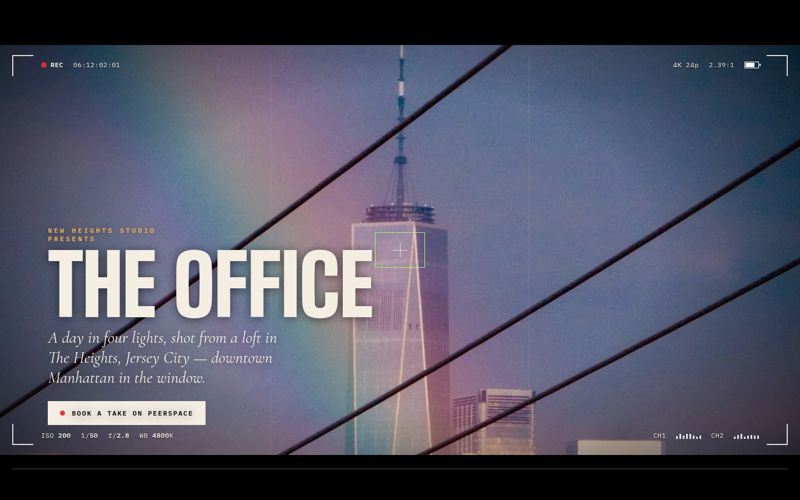
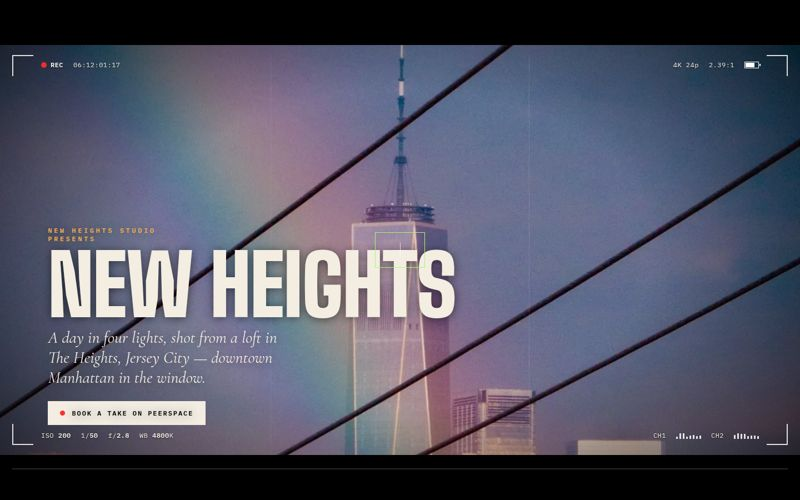
Rebrand concepts: New Heights Studio, HEIGHTS 98, facts-only copy

Changed region(s): [[0.0625, 0.48, 0.5938, 0.66]]

diff --git a/1/index.html b/1/index.html
@@ -2,7 +2,7 @@
 <html lang="en"><head>
 <meta charset="utf-8"><meta name="viewport" content="width=device-width,initial-scale=1">
 <meta name="robots" content="noindex,nofollow,noarchive">
-<title>NEW HEIGHTS — Issue Nº01: The Office Issue</title>
+<title>NEW HEIGHTS — Issue Nº01: The Skyline Issue</title>
 <link rel="preconnect" href="https://fonts.googleapis.com"><link rel="preconnect" href="https://fonts.gstatic.com" crossorigin>
 <link href="https://fonts.googleapis.com/css2?family=Anton&family=Instrument+Serif:ital@0;1&family=JetBrains+Mono:wght@400;700&display=swap" rel="stylesheet">
 <style>
@@ -92,28 +92,28 @@ a{color:inherit}img{display:block;width:100%;height:100%;object-fit:cover}
 @media(hover:none){.cursor{display:none}}
 </style></head><body>
 <div class="cursor" id="cur"></div>
-<header class="top cap"><span>New Heights Studio</span><span class="h">Issue Nº01 — The Office Issue</span><span class="h">The Heights, Jersey City NJ</span><span class="h">$75–99/hr</span><a class="h" href="https://www.instagram.com/newheightsstudiojc/" target="_blank" rel="noopener">IG @newheightsstudiojc</a><a class="bk" href="https://www.peerspace.com/pages/listings/6ae4f4368b9999ba346769e4" target="_blank" rel="noopener">BOOK ON PEERSPACE ↗</a></header>
+<header class="top cap"><span>New Heights Studio</span><span class="h">Issue Nº01 — The Skyline Issue</span><span class="h">The Heights, Jersey City NJ</span><span class="h">$75–99/hr</span><a class="h" href="https://www.instagram.com/newheightsstudiojc/" target="_blank" rel="noopener">IG @newheightsstudiojc</a><a class="bk" href="https://www.peerspace.com/pages/listings/6ae4f4368b9999ba346769e4" target="_blank" rel="noopener">BOOK ON PEERSPACE ↗</a></header>
 
 <section class="cover">
  <h1 class="mast A">New<span>/</span>Heights</h1>
- <div class="cimg"><img src="../img/13.webp" alt="Rainbow over downtown Manhattan and One World Trade from the studio window" fetchpriority="high"><span class="tag cap">Fig. 13 — View from the office</span></div>
+ <div class="cimg"><img src="../img/13.webp" alt="Rainbow over downtown Manhattan and One World Trade from the studio window" fetchpriority="high"><span class="tag cap">Fig. 13 — View from the window</span></div>
  <div class="lines">
   <p class="cap">Nº01 · Photo / Video / Podcast / Production</p>
-  <h2 class="A">500 sq ft of daylight &amp; white brick</h2>
-  <p class="S">Why everyone just calls it <em>“the office.”</em></p>
-  <p>A natural-light loft in The Heights, Jersey City, with the downtown Manhattan skyline in the window. Fifteen-foot ceilings, vintage white brick, mounted backdrops, lighting included.</p>
+  <h2 class="A">Daylight, white brick &amp; a skyline</h2>
+  <p class="S">Downtown Manhattan, <em>right in the window.</em></p>
+  <p>A natural-light loft in The Heights, Jersey City, with the downtown Manhattan skyline and One World Trade in view. Exposed vintage white brick and a variety of mounted backdrops and materials.</p>
  </div>
  <div class="rgt">
   <div><p class="cap">Inside: rates, p.07</p><div class="price A">$75</div><p class="cap">per hour · 3 hr minimum</p></div>
   <div><div class="bar" aria-hidden="true"></div><p class="cap" style="margin:6px 0 14px">0 75099 00001 · JC/NYC</p>
-  <a class="big-btn" href="https://www.peerspace.com/pages/listings/6ae4f4368b9999ba346769e4" target="_blank" rel="noopener">Book the office ↗</a></div>
+  <a class="big-btn" href="https://www.peerspace.com/pages/listings/6ae4f4368b9999ba346769e4" target="_blank" rel="noopener">Book New Heights ↗</a></div>
  </div>
 </section>
 
-<div class="tick" aria-hidden="true"><div><span>Photo ✶ Video ✶ Production ✶ Podcast ✶ Content ✶ Meetings ✶ Workshops ✶ Manhattan views ✶ Vintage white brick ✶ 15 ft ceilings ✶</span><span>Photo ✶ Video ✶ Production ✶ Podcast ✶ Content ✶ Meetings ✶ Workshops ✶ Manhattan views ✶ Vintage white brick ✶ 15 ft ceilings ✶</span></div></div>
+<div class="tick" aria-hidden="true"><div><span>Photo ✶ Video ✶ Production ✶ Podcast ✶ Content ✶ Meetings ✶ Workshops ✶ Manhattan views ✶ Vintage white brick ✶ Natural light ✶</span><span>Photo ✶ Video ✶ Production ✶ Podcast ✶ Content ✶ Meetings ✶ Workshops ✶ Manhattan views ✶ Vintage white brick ✶ Natural light ✶</span></div></div>
 
 <section class="toc"><h3 class="A">Con&shy;tents</h3><ol>
- <li><a href="#light"><span class="cap">p.02</span><b>The light</b><em class="cap">Windows on two sides</em></a></li>
+ <li><a href="#light"><span class="cap">p.02</span><b>The light</b><em class="cap">Natural light</em></a></li>
  <li><a href="#brick"><span class="cap">p.03</span><b>The brick</b><em class="cap">Backdrops &amp; materials</em></a></li>
  <li><a href="#uses"><span class="cap">p.04</span><b>Six ways to use it</b><em class="cap">Photo → workshop</em></a></li>
  <li><a href="#table"><span class="cap">p.05</span><b>The table</b><em class="cap">Seats 8</em></a></li>
@@ -122,41 +122,41 @@ a{color:inherit}img{display:block;width:100%;height:100%;object-fit:cover}
 </ol></section>
 
 <section class="spread" id="light"><div class="no">02 — The Light</div><div class="ph"><img src="../img/04.webp" alt="Sunlit loft with brick, windows and lounge" loading="lazy"></div>
-<div class="tx"><div><p class="cap">Feature</p><h4 class="A">Dawn<br>to dusk.</h4></div>
-<div class="cols"><p class="drop">Large windows on two sides soak the room in natural light all day, with the downtown skyline sitting right there in the glass. One World Trade included, no extra charge.</p><p>When you want control, full-length heavy curtains black the room out completely — and double as a backdrop. Fifteen-foot ceilings leave room for overhead rigs on the included boom arms.</p></div>
-<p class="pull S">“Windows on two sides. Skyline on one.”</p></div></section>
+<div class="tx"><div><p class="cap">Feature</p><h4 class="A">Natural<br>light.</h4></div>
+<div class="cols"><p class="drop">Natural light fills the loft, with the downtown Manhattan skyline sitting right there in the glass and One World Trade in view.</p><p>Shoot in daylight against exposed vintage white brick, or work with the variety of mounted backdrops and materials.</p></div>
+<p class="pull S">“Daylight in. Skyline out.”</p></div></section>
 
 <section class="spread flip" id="brick"><div class="no">03 — The Brick</div><div class="ph"><img src="../img/18.webp" alt="Guitarist portrait against white brick" loading="lazy"></div>
 <div class="tx"><div><p class="cap">Texture</p><h4 class="A">Vintage<br>white<br>brick.</h4></div>
-<div class="cols"><p class="drop">A variety of mounted backdrops and materials sit against an exposed vintage white brick wall. Shoot clean, shoot raw, shoot both in one booking.</p><p>Lighting is part of the deal: Godox QS400 strobe, V860 speedlite + trigger, two GVM LED panels, C-stands, boom arms, a clamshell reflector and modifiers.</p></div>
-<p class="pull S">Gear is part of the booking.</p></div></section>
+<div class="cols"><p class="drop">A variety of mounted backdrops and materials sit against an exposed vintage white brick wall. Shoot clean, shoot raw, shoot both in one booking.</p><p>Photo, video, production, podcast, content — the same wall works for all of it.</p></div>
+<p class="pull S">Texture is part of the frame.</p></div></section>
 
 <section class="uses" id="uses">
- <article><img src="../img/t/02.webp" alt="" loading="lazy"><span class="cap">04.1</span><h5 class="A">Photo</h5><p>Portraits, fashion, product, editorial. Daylight or blackout, backdrops or brick.</p></article>
- <article><img src="../img/t/16.webp" alt="" loading="lazy"><span class="cap">04.2</span><h5 class="A">Video</h5><p>Music videos, interviews, brand films, short-form. Total blackout on demand.</p></article>
- <article><img src="../img/t/15.webp" alt="" loading="lazy"><span class="cap">04.3</span><h5 class="A">Production</h5><p>Small crews and full production days for up to 10 people.</p></article>
+ <article><img src="../img/t/02.webp" alt="" loading="lazy"><span class="cap">04.1</span><h5 class="A">Photo</h5><p>Portraits, fashion, product, editorial. Natural light, backdrops or brick.</p></article>
+ <article><img src="../img/t/16.webp" alt="" loading="lazy"><span class="cap">04.2</span><h5 class="A">Video</h5><p>Music videos, interviews, brand films, short-form. Skyline and brick on camera.</p></article>
+ <article><img src="../img/t/15.webp" alt="" loading="lazy"><span class="cap">04.3</span><h5 class="A">Production</h5><p>Shoot days and productions in a natural-light loft.</p></article>
  <article><img src="../img/t/03.webp" alt="" loading="lazy"><span class="cap">04.4</span><h5 class="A">Podcast</h5><p>Roundtables at the 8-seat table. Bring your own mics and recorders.</p></article>
  <article><img src="../img/t/19.webp" alt="" loading="lazy"><span class="cap">04.5</span><h5 class="A">Content</h5><p>Reels, TikToks, YouTube, product and social. A dozen looks, one booking.</p></article>
- <article><img src="../img/t/14.webp" alt="" loading="lazy"><span class="cap">04.6</span><h5 class="A">Meetings</h5><p>Workshops, pre-production and team sessions. Fast wifi, coffee station.</p></article>
+ <article><img src="../img/t/14.webp" alt="" loading="lazy"><span class="cap">04.6</span><h5 class="A">Meetings</h5><p>Meetings and workshops around the 8-seat conference table.</p></article>
 </section>
 
 <section class="spread" id="table"><div class="no">05 — The Table</div><div class="ph"><img src="../img/03.webp" alt="Conference table with leather chairs" loading="lazy"></div>
 <div class="tx"><div><p class="cap">Meetings · Podcasts · Roundtables</p><h4 class="A">Eight<br>seats.</h4></div>
-<div class="cols"><p class="drop">The extendable conference table seats eight — for podcasts, interviews, roundtables, pre-pro and the kind of meeting that actually feels like going to the office.</p><p>Production desk with LG monitor and KRK audio monitors. Bring your own microphones and recorders.</p></div>
-<p class="pull S">Meet at the office.</p></div></section>
+<div class="cols"><p class="drop">The conference table seats eight — for podcasts, interviews, roundtables, meetings and workshops.</p><p>Recording a podcast? Bring your own microphones and recorders.</p></div>
+<p class="pull S">Pull up a chair.</p></div></section>
 
 <section class="figs" id="figs"></section>
 
 <section class="rate" id="rate"><div class="n A"><sup>$</sup>75<span style="color:var(--r)">–</span>99</div>
-<div class="d"><div><p class="cap">p.07 — The rate</p><p class="S" style="font-size:38px;line-height:1;margin-top:10px">Per hour. Lighting and a host/assistant included.</p></div>
-<dl class="cap"><dt>Minimum</dt><dd>3 hours</dd><dt>Capacity</dt><dd>Up to 10</dd><dt>Size</dt><dd>500 sq ft</dd><dt>Ceilings</dt><dd>15 ft</dd><dt>Booking</dt><dd>Peerspace only</dd></dl>
+<div class="d"><div><p class="cap">p.07 — The rate</p><p class="S" style="font-size:38px;line-height:1;margin-top:10px">Per hour, booked on Peerspace.</p></div>
+<dl class="cap"><dt>Rate</dt><dd>$75–99 / hr</dd><dt>Minimum</dt><dd>3 hours</dd><dt>Location</dt><dd>The Heights, Jersey City</dd><dt>Booking</dt><dd>Peerspace only</dd></dl>
 <a class="big-btn" href="https://www.peerspace.com/pages/listings/6ae4f4368b9999ba346769e4" target="_blank" rel="noopener">Check dates on Peerspace ↗</a></div></section>
 
-<footer class="back"><p class="cap">Back cover</p><a class="huge A" href="https://www.peerspace.com/pages/listings/6ae4f4368b9999ba346769e4" target="_blank" rel="noopener">Book the<br>office ↗</a>
-<div class="row cap"><span>© New Heights Studio · The Heights, Jersey City NJ · Address shared via Peerspace</span><span><a href="https://www.instagram.com/newheightsstudiojc/" target="_blank" rel="noopener">Instagram</a> · <a href="https://www.facebook.com/newheightsstudiojc" target="_blank" rel="noopener">Facebook</a> · <a href="../">All concepts</a></span></div></footer>
+<footer class="back"><p class="cap">Back cover</p><a class="huge A" href="https://www.peerspace.com/pages/listings/6ae4f4368b9999ba346769e4" target="_blank" rel="noopener">Book New<br>Heights ↗</a>
+<div class="row cap"><span>© New Heights Studio · The Heights, Jersey City NJ</span><span><a href="https://www.instagram.com/newheightsstudiojc/" target="_blank" rel="noopener">Instagram</a> · <a href="https://www.facebook.com/newheightsstudiojc" target="_blank" rel="noopener">Facebook</a> · <a href="../">All concepts</a></span></div></footer>
 <div class="lb" id="lb"><img alt=""><p class="cap"></p></div>
 <script>
-const caps=["Seamless + strobe","Black backdrop by the window","The 8-seat table","Wide, sunlit","Lounge","Production desk","Desk, KRK monitors","Marshall + Harley","Harley detail","Keys + curtains","Rooftops","Freight elevator","Rainbow over downtown","Full room","Tethered shoot","Drum session","Wicker chair","Guitarist on brick","Couch portrait"];
+const caps=["Black backdrop set","Backdrop by the window","The 8-seat table","Wide, sunlit","Lounge","Desk setup","Desk detail","Amp + motorcycle","Motorcycle detail","Keys by the window","Rooftops","Load-in","Rainbow over downtown","Full room","On set","Drum session","Wicker chair","Guitarist on brick","Couch portrait"];
 const F=document.getElementById('figs'),lb=document.getElementById('lb');
 caps.forEach((c,i)=>{const n=String(i+1).padStart(2,'0');const f=document.createElement('figure');if(i==3||i==12)f.className='w2';f.innerHTML=`<div><img src="../img/t/${n}.webp" alt="${c}" loading="lazy"></div><figcaption class="cap">Fig. ${n} — ${c}</figcaption>`;f.onclick=()=>{lb.querySelector('img').src=`../img/${n}.webp`;lb.querySelector('p').textContent=`Fig. ${n} — ${c}`;lb.classList.add('on')};F.appendChild(f)});
 lb.onclick=()=>lb.classList.remove('on');

diff --git a/3/index.html b/3/index.html
@@ -2,7 +2,7 @@
 <html lang="en"><head>
 <meta charset="utf-8"><meta name="viewport" content="width=device-width,initial-scale=1">
 <meta name="robots" content="noindex,nofollow,noarchive">
-<title>the office — NewHeights OS 98</title>
+<title>HEIGHTS 98 — New Heights Studio</title>
 <link rel="preconnect" href="https://fonts.googleapis.com"><link rel="preconnect" href="https://fonts.gstatic.com" crossorigin>
 <link href="https://fonts.googleapis.com/css2?family=Pixelify+Sans:wght@400;700&family=Permanent+Marker&family=VT323&display=swap" rel="stylesheet">
 <style>
@@ -59,7 +59,7 @@ table{border-collapse:collapse;width:100%}td{padding:4px 6px;border-bottom:1px d
 .tray{border:1px solid;border-color:var(--sh) var(--hi) var(--hi) var(--sh);padding:4px 10px;font-size:12px;display:flex;gap:10px;align-items:center}
 .tray a{text-decoration:none}
 .smenu{position:fixed;left:2px;bottom:34px;width:250px;background:var(--face);border:2px solid;border-color:var(--hi) var(--dk) var(--dk) var(--hi);display:none;z-index:1001;padding:2px 2px 2px 30px}
-.smenu:before{content:"NewHeights 98";position:absolute;left:2px;top:2px;bottom:2px;width:26px;background:linear-gradient(0deg,var(--blue),var(--blue2));color:#fff;writing-mode:vertical-rl;transform:rotate(180deg);font-family:"Pixelify Sans";font-size:18px;padding:6px 0;text-align:left}
+.smenu:before{content:"HEIGHTS 98";position:absolute;left:2px;top:2px;bottom:2px;width:26px;background:linear-gradient(0deg,var(--blue),var(--blue2));color:#fff;writing-mode:vertical-rl;transform:rotate(180deg);font-family:"Pixelify Sans";font-size:18px;padding:6px 0;text-align:left}
 .smenu.on{display:block}.smenu a{display:flex;gap:10px;align-items:center;padding:8px 10px;text-decoration:none;color:#000;cursor:pointer}.smenu a:hover{background:var(--blue);color:#fff}
 .smenu hr{border:0;border-top:1px solid var(--sh);border-bottom:1px solid #fff;margin:3px 0}
 .marq{overflow:hidden;white-space:nowrap;background:#000;color:#0f0;font-family:VT323;font-size:20px;padding:2px 0}
@@ -72,7 +72,7 @@ table{border-collapse:collapse;width:100%}td{padding:4px 6px;border-bottom:1px d
 </style></head><body>
 <main class="desk" id="desk">
  <div class="icons">
-  <div class="ic" tabindex="0" data-open="about"><div class="g">🏢</div><span>the office</span></div>
+  <div class="ic" tabindex="0" data-open="about"><div class="g">🏙</div><span>New Heights</span></div>
   <div class="ic" tabindex="0" data-open="photos"><div class="g">📁</div><span>Photos (19)</span></div>
   <div class="ic" tabindex="0" data-open="rates"><div class="g">📄</div><span>rates.txt</span></div>
   <div class="ic" tabindex="0" data-open="uses"><div class="g">🎬</div><span>Uses.exe</span></div>
@@ -80,23 +80,22 @@ table{border-collapse:collapse;width:100%}td{padding:4px 6px;border-bottom:1px d
   <div class="ic" tabindex="0" data-open="sky"><div class="g">🌈</div><span>skyline.jpg</span></div>
   <div class="ic" tabindex="0" data-href="https://www.instagram.com/newheightsstudiojc/"><div class="g">📸</div><span>Instagram</span></div>
   <div class="ic" tabindex="0" data-href="https://www.facebook.com/newheightsstudiojc"><div class="g">🌐</div><span>Facebook</span></div>
-  <div class="ic" tabindex="0" data-open="bin"><div class="g">🗑</div><span>Recycle Bin</span></div>
  </div>
- <div class="brand"><b>the office</b><span>New Heights Studio · Jersey City</span></div>
+ <div class="brand"><b>HEIGHTS 98</b><span>New Heights Studio · Jersey City</span></div>
 
- <section class="win" id="about" data-title="Welcome to the office" style="left:120px;top:36px;width:440px">
-  <div class="tb"><span>🏢</span><span class="t">Welcome to the office</span><button data-min>_</button><button data-max>□</button><button data-x>×</button></div>
+ <section class="win" id="about" data-title="Welcome to New Heights" style="left:120px;top:36px;width:440px">
+  <div class="tb"><span>🏙</span><span class="t">Welcome to New Heights</span><button data-min>_</button><button data-max>□</button><button data-x>×</button></div>
   <div class="menu"><span><u>F</u>ile</span><span><u>E</u>dit</span><span><u>V</u>iew</span><span><u>H</u>elp</span></div>
   <div class="body pad"><h1 class="px">New Heights Studio</h1>
-   <p style="margin-bottom:8px">Everyone just calls it <b>“the office.”</b> It’s a 500 sq ft natural-light loft in The Heights, Jersey City — with downtown Manhattan and One World Trade sitting right in the window.</p>
-   <p style="margin-bottom:12px">Exposed vintage white brick. A variety of mounted backdrops and materials. An 8-seat conference table. 15 ft ceilings. Lighting kit and a host/assistant with every booking.</p>
+   <p style="margin-bottom:8px">A natural-light loft in The Heights, Jersey City — with downtown Manhattan and One World Trade right in the window.</p>
+   <p style="margin-bottom:12px">Exposed vintage white brick. A variety of mounted backdrops and materials. An 8-seat conference table.</p>
    <div class="marq"><span>★ PHOTO ★ VIDEO ★ PRODUCTION ★ PODCAST (BYO MICS) ★ CONTENT ★ MEETINGS &amp; WORKSHOPS ★ $75–99/HR ★ 3 HR MIN ★ BOOK ON PEERSPACE ★</span></div>
    <p style="margin-top:12px;display:flex;gap:8px;flex-wrap:wrap"><a class="btn def" href="https://www.peerspace.com/pages/listings/6ae4f4368b9999ba346769e4" target="_blank" rel="noopener">Book on Peerspace…</a><button class="btn" data-open="photos">Browse photos</button></p></div>
-  <div class="status"><span>1 object(s) · 500 sq ft</span><span>The Heights, JC</span></div>
+  <div class="status"><span>New Heights Studio</span><span>The Heights, JC</span></div>
  </section>
 
- <section class="win" id="photos" data-title="C:\Office\Photos" style="left:590px;top:60px;width:470px;height:380px">
-  <div class="tb"><span>📁</span><span class="t">C:\Office\Photos</span><button data-min>_</button><button data-max>□</button><button data-x>×</button></div>
+ <section class="win" id="photos" data-title="C:\NewHeights\Photos" style="left:590px;top:60px;width:470px;height:380px">
+  <div class="tb"><span>📁</span><span class="t">C:\NewHeights\Photos</span><button data-min>_</button><button data-max>□</button><button data-x>×</button></div>
   <div class="menu"><span><u>F</u>ile</span><span><u>E</u>dit</span><span><u>V</u>iew</span><span>F<u>a</u>vorites</span></div>
   <div class="body"><div class="files" id="files"></div></div>
   <div class="status"><span>19 object(s)</span><span>Double-click to open</span></div>
@@ -104,12 +103,12 @@ table{border-collapse:collapse;width:100%}td{padding:4px 6px;border-bottom:1px d
 
  <section class="win" id="rates" data-title="rates.txt - Notepad" style="left:180px;top:410px;width:330px">
   <div class="tb"><span>📄</span><span class="t">rates.txt - Notepad</span><button data-min>_</button><button data-max>□</button><button data-x>×</button></div>
-  <div class="body pad mono">RATE....... $75–99/hr<br>MINIMUM.... 3 hours<br>CAPACITY... up to 10<br>CEILINGS... 15 ft<br>INCLUDED... lights + host<br>BOOKING.... peerspace only<br><span class="blink">█</span></div>
+  <div class="body pad mono">RATE....... $75–99/hr<br>MINIMUM.... 3 hours<br>WHERE...... The Heights, JC<br>VIEW....... downtown Manhattan<br>BOOKING.... peerspace only<br><span class="blink">█</span></div>
  </section>
 
  <section class="win dlg" id="book" data-title="BOOK.EXE" style="left:calc(50% - 170px);top:calc(50% + 30px);width:340px">
   <div class="tb"><span>💾</span><span class="t">BOOK.EXE</span><button data-x>×</button></div>
-  <div class="body"><div class="ico">❓</div><div>Ready to book a session at the office?<br><br><b>$75–99/hr · 3 hr minimum.</b><br>All bookings happen on Peerspace.</div></div>
+  <div class="body"><div class="ico">❓</div><div>Ready to book a session at New Heights Studio?<br><br><b>$75–99/hr · 3 hr minimum.</b><br>All bookings happen on Peerspace.</div></div>
   <div class="row"><a class="btn def" href="https://www.peerspace.com/pages/listings/6ae4f4368b9999ba346769e4" target="_blank" rel="noopener">Yes, book it</a><button class="btn" data-x>Later</button></div>
  </section>
 
@@ -118,38 +117,33 @@ table{border-collapse:collapse;width:100%}td{padding:4px 6px;border-bottom:1px d
   <div class="body pad"><table>
    <tr><td>📷 Photo</td><td>portraits · fashion · product</td></tr>
    <tr><td>🎥 Video</td><td>music videos · interviews · brand</td></tr>
-   <tr><td>🎬 Production</td><td>crews up to 10</td></tr>
+   <tr><td>🎬 Production</td><td>shoot days · productions</td></tr>
    <tr><td>🎙 Podcast</td><td>8-seat table · BYO mics/recorders</td></tr>
    <tr><td>📱 Content</td><td>Reels · TikTok · YouTube</td></tr>
-   <tr><td>🤝 Meetings</td><td>workshops · pre-pro · teams</td></tr></table>
+   <tr><td>🤝 Meetings</td><td>workshops · 8-seat table</td></tr></table>
    <p style="margin-top:12px"><a class="btn def" href="https://www.peerspace.com/pages/listings/6ae4f4368b9999ba346769e4" target="_blank" rel="noopener">Book on Peerspace…</a></p></div>
  </section>
 
  <section class="win viewer hide" id="sky" data-title="skyline.jpg" style="left:330px;top:30px;width:380px;height:520px">
   <div class="tb"><span>🌈</span><span class="t" id="vt">skyline.jpg - Image Viewer</span><button data-min>_</button><button data-max>□</button><button data-x>×</button></div>
-  <div class="body"><img id="vimg" src="../img/13.webp" alt="Rainbow over downtown Manhattan from the office window" loading="lazy"></div>
-  <div class="status"><span id="vs">View from the office · One World Trade</span></div>
+  <div class="body"><img id="vimg" src="../img/13.webp" alt="Rainbow over downtown Manhattan from the studio window" loading="lazy"></div>
+  <div class="status"><span id="vs">View from the studio window · One World Trade</span></div>
  </section>
 
- <section class="win dlg hide" id="bin" data-title="Recycle Bin" style="left:140px;top:200px;width:320px">
-  <div class="tb"><span>🗑</span><span class="t">Recycle Bin</span><button data-x>×</button></div>
-  <div class="body"><div class="ico">🗑</div><div class="mono">boring_white_studio.psd<br>fluorescent_lights.cfg<br>no_view.jpg</div></div>
-  <div class="row"><button class="btn def" data-x>OK</button></div>
- </section>
 
- <div class="pol" style="left:1090px;top:40px;transform:rotate(6deg)"><span class="tape"></span><img src="../img/t/18.webp" alt="Guitarist on white brick"><p>brick wall 🤘</p></div>
- <div class="pol" style="left:1120px;top:330px;transform:rotate(-7deg)"><span class="tape"></span><img src="../img/t/03.webp" alt="8-seat conference table"><p>meeting @ the office</p></div>
- <div class="pol" style="left:600px;top:470px;transform:rotate(3deg)"><span class="tape"></span><img src="../img/t/13.webp" alt="Rainbow over Manhattan"><p>our view lol</p></div>
+ <div class="pol" style="left:1090px;top:40px;transform:rotate(6deg)"><span class="tape"></span><img src="../img/t/18.webp" alt="Guitarist on white brick"><p>white brick</p></div>
+ <div class="pol" style="left:1120px;top:330px;transform:rotate(-7deg)"><span class="tape"></span><img src="../img/t/03.webp" alt="8-seat conference table"><p>8-seat table</p></div>
+ <div class="pol" style="left:600px;top:470px;transform:rotate(3deg)"><span class="tape"></span><img src="../img/t/13.webp" alt="Rainbow over Manhattan"><p>the view</p></div>
 </main>
 
 <div class="smenu" id="smenu">
  <a href="https://www.peerspace.com/pages/listings/6ae4f4368b9999ba346769e4" target="_blank" rel="noopener">💾 <b>Book on Peerspace</b></a><hr>
- <a data-open="about">🏢 the office</a><a data-open="photos">📁 Photos</a><a data-open="uses">🎬 Uses</a><a data-open="rates">📄 Rates</a><a data-open="sky">🌈 Skyline</a><hr>
+ <a data-open="about">🏙 New Heights</a><a data-open="photos">📁 Photos</a><a data-open="uses">🎬 Uses</a><a data-open="rates">📄 Rates</a><a data-open="sky">🌈 Skyline</a><hr>
  <a href="https://www.instagram.com/newheightsstudiojc/" target="_blank" rel="noopener">📸 Instagram</a><a href="https://www.facebook.com/newheightsstudiojc" target="_blank" rel="noopener">🌐 Facebook</a><a href="../">⏻ All concepts…</a>
 </div>
 <footer class="task"><button class="btn start" id="start"><i>NH</i>Start</button><div class="tasks" id="tasks"></div><div class="tray"><a href="https://www.peerspace.com/pages/listings/6ae4f4368b9999ba346769e4" target="_blank" rel="noopener" title="Book">📅</a><span>🔊</span><span id="clk">12:00 PM</span></div></footer>
 <script>
-const caps=["seamless_strobe","black_backdrop","conference_table","loft_wide","lounge","production_desk","krk_desk","marshall_harley","harley","keys_curtains","rooftops","freight_elevator","skyline_rainbow","full_room","tethered","drum_session","wicker_chair","guitarist","couch_portrait"];
+const caps=["backdrop_set","black_backdrop","conference_table","loft_wide","lounge","desk","desk_detail","amp_moto","moto_detail","keys","rooftops","load_in","skyline_rainbow","full_room","on_set","drum_session","wicker_chair","guitarist","couch_portrait"];
 const pad=n=>String(n).padStart(2,'0'),$=id=>document.getElementById(id);
 let z=20;const wins=[...document.querySelectorAll('.win')],tasks=$('tasks');
 function focusW(w){wins.forEach(x=>x.classList.remove('act'));w.classList.add('act');w.style.zIndex=++z;renderTasks()}

diff --git a/2/index.html b/2/index.html
@@ -89,10 +89,10 @@ a{color:inherit}
   <div class="tint" id="tint"></div><div class="shade" id="shade" style="opacity:0"></div>
   <div class="vig"></div><div class="grain"></div>
 
-  <div class="title" data-s="0"><p class="k">New Heights Studio presents</p><h1>The Office</h1><p>A day in four lights, shot from a loft in The Heights, Jersey City — downtown Manhattan in the window.</p><a class="cta" href="https://www.peerspace.com/pages/listings/6ae4f4368b9999ba346769e4" target="_blank" rel="noopener"><i></i>Book a take on Peerspace</a></div>
-  <div class="title off" data-s="1"><p class="k">Scene 02 · 12:00 · 5600K</p><h2>Windows on two sides.</h2><p>Natural light from dawn to dusk across 500 sq ft, 15 ft ceilings and exposed vintage white brick.</p></div>
-  <div class="title off" data-s="2"><p class="k">Scene 03 · 18:40 · 3800K</p><h2>Golden hour, on the couch.</h2><p>A variety of mounted backdrops and materials. Modular furniture, all of it usable on camera. An 8-seat table for podcasts and meetings.</p></div>
-  <div class="title off" data-s="3"><p class="k">Scene 04 · 21:15 · Strobe</p><h2>Curtains closed. Lights up.</h2><p>Full-length blackout curtains, Godox strobe and speedlite, GVM LED panels, C-stands and boom arms — included with every booking.</p><a class="cta" href="https://www.peerspace.com/pages/listings/6ae4f4368b9999ba346769e4" target="_blank" rel="noopener"><i></i>Roll camera · $75–99/hr</a></div>
+  <div class="title" data-s="0"><p class="k">New Heights Studio presents</p><h1>New Heights</h1><p>A day in four lights, shot from a loft in The Heights, Jersey City — downtown Manhattan in the window.</p><a class="cta" href="https://www.peerspace.com/pages/listings/6ae4f4368b9999ba346769e4" target="_blank" rel="noopener"><i></i>Book a take on Peerspace</a></div>
+  <div class="title off" data-s="1"><p class="k">Scene 02 · 12:00 · 5600K</p><h2>Natural light.</h2><p>Daylight across exposed vintage white brick, with the downtown skyline and One World Trade in the window.</p></div>
+  <div class="title off" data-s="2"><p class="k">Scene 03 · 18:40 · 3800K</p><h2>Golden hour.</h2><p>A variety of mounted backdrops and materials. An 8-seat conference table for podcasts, meetings and workshops.</p></div>
+  <div class="title off" data-s="3"><p class="k">Scene 04 · 21:15 · Night</p><h2>After dark.</h2><p>Photo, video, production, podcast and content — the skyline lights up and the shoot keeps rolling.</p><a class="cta" href="https://www.peerspace.com/pages/listings/6ae4f4368b9999ba346769e4" target="_blank" rel="noopener"><i></i>Roll camera · $75–99/hr</a></div>
 
   <div class="slate" id="slate"><div class="stick"></div><div class="bd"><div class="w" id="slT">Dawn</div><div><small>ROLL</small>NH-01</div><div><small>SCENE</small><span id="slS">01</span></div><div><small>TAKE</small><span id="slK">1</span></div><div><small>PROD</small>NEW HEIGHTS</div><div><small>DIR</small>YOU</div><div><small>LOC</small>JC, NJ</div></div></div>
 
@@ -113,22 +113,19 @@ a{color:inherit}
  <dl class="roll">
   <dt>Location</dt><dd>The Heights, Jersey City, NJ</dd>
   <dt>View</dt><dd>Downtown Manhattan · One World Trade</dd>
-  <dt>Set</dt><dd>500 sq ft natural-light loft</dd>
+  <dt>Set</dt><dd>Natural-light loft</dd>
   <dt>Texture</dt><dd>Exposed vintage white brick</dd>
   <dt>Art dept</dt><dd>Variety of mounted backdrops &amp; materials</dd>
-  <dt>Lighting</dt><dd>Godox QS400 · V860 · GVM LEDs</dd>
-  <dt>Grip</dt><dd>3 C-stands · 2 boom arms · clamshell</dd>
   <dt>Table read</dt><dd>Conference table, seats 8</dd>
   <dt>Audio</dt><dd>Podcast-ready · bring your own mics &amp; recorders</dd>
-  <dt>Crew</dt><dd>Host/assistant with every booking</dd>
   <div class="sp"></div>
   <dt>Genres</dt><dd>Photo · Video · Production · Podcast · Content · Meetings &amp; workshops</dd>
   <dt>Rate</dt><dd>$75–99 / hour · 3 hour minimum</dd>
-  <dt>Box office</dt><dd>Peerspace only</dd>
+  <dt>Tickets</dt><dd>Peerspace only</dd>
  </dl>
  <div class="reel" id="reel"></div>
  <div class="fin"><p>Your scene. Our light.</p><a class="cta" href="https://www.peerspace.com/pages/listings/6ae4f4368b9999ba346769e4" target="_blank" rel="noopener"><i></i>Book New Heights on Peerspace</a></div>
- <div class="foot"><span>© New Heights Studio · aka “the office”</span><span><a href="https://www.instagram.com/newheightsstudiojc/" target="_blank" rel="noopener">Instagram</a> · <a href="https://www.facebook.com/newheightsstudiojc" target="_blank" rel="noopener">Facebook</a> · <a href="../">All concepts</a></span></div>
+ <div class="foot"><span>© New Heights Studio · The Heights, Jersey City</span><span><a href="https://www.instagram.com/newheightsstudiojc/" target="_blank" rel="noopener">Instagram</a> · <a href="https://www.facebook.com/newheightsstudiojc" target="_blank" rel="noopener">Facebook</a> · <a href="../">All concepts</a></span></div>
 </section>
 <script>
 const $=id=>document.getElementById(id);

diff --git a/4/index.html b/4/index.html
@@ -43,7 +43,7 @@ canvas{position:fixed;inset:0;display:block;touch-action:none;cursor:none}
 </head><body>
 <div class="fallback" id="fb"></div>
 <div class="ui">
- <div class="logo">NEW HEIGHTS STUDIO<small>THE HEIGHTS · JERSEY CITY · “THE OFFICE”</small></div>
+ <div class="logo">NEW HEIGHTS STUDIO<small>THE HEIGHTS · JERSEY CITY · MANHATTAN VIEWS</small></div>
  <a class="book" href="https://www.peerspace.com/pages/listings/6ae4f4368b9999ba346769e4" target="_blank" rel="noopener"><i></i>Book on Peerspace</a>
  <div class="info"><span>Natural-light loft</span><span>Manhattan skyline view</span><span>Vintage white brick</span><span>Mounted backdrops &amp; materials</span><span>8-seat table</span><span>$75–99 / hr · 3 hr min</span></div>
  <div class="hero" id="hero"><h1>You are<span>the light.</span></h1><p>Nineteen frames from a natural-light loft in Jersey City, hung in the dark. Move to light them. Photo, video, production, podcast (bring your mics), content and meetings — booked only on Peerspace.</p></div>
@@ -53,7 +53,7 @@ canvas{position:fixed;inset:0;display:block;touch-action:none;cursor:none}
 </div>
 <div class="ring" id="ring"></div><div class="dot" id="dot"></div>
 <script>
-window.CAPS=[["Seamless + strobe","Black seamless, Godox QS400 on a boom"],["Black backdrop","By the window, daylight spill"],["The table","Conference table, seats 8 — podcasts & meetings"],["The loft","500 sq ft, 15 ft ceilings, windows on two sides"],["The lounge","Modular, all of it usable on camera"],["Production desk","LG monitor + KRK audio monitors"],["The desk","Tether, edit, review"],["Marshall + Harley","Props with attitude"],["The Harley","2005 Harley-Davidson, add-on for shoots"],["Keys + curtains","Full-length blackout curtains"],["Rooftops","The Heights through the glass"],["Freight elevator","Easy load-in"],["The view","Rainbow over downtown Manhattan, One World Trade"],["The whole room","Brick, gallery wall, pink couch"],["On set","Tethered shoot in progress"],["Drum session","Music & video by the windows"],["Wicker chair","A moody corner in soft window light"],["White brick","Exposed vintage white brick portrait"],["Couch portrait","Natural-light portrait session"]];
+window.CAPS=[["Backdrop set","Mounted backdrops & materials"],["Black backdrop","By the window, daylight spill"],["The table","Conference table, seats 8 — podcasts & meetings"],["The loft","Natural light and vintage white brick"],["The lounge","Natural-light loft"],["The desk","Content creation & production"],["Desk detail","Production"],["Amp + motorcycle","Photo & video"],["Motorcycle detail","Photo & video"],["Keys","Music & video"],["Rooftops","The Heights through the glass"],["Load-in","New Heights Studio"],["The view","Rainbow over downtown Manhattan, One World Trade"],["The whole room","Vintage white brick"],["On set","Photo shoot in progress"],["Drum session","Music & video"],["Wicker chair","Soft window light"],["White brick","Exposed vintage white brick portrait"],["Couch portrait","Natural-light portrait session"]];
 const fb=document.getElementById('fb');CAPS.forEach((c,i)=>{const im=new Image();im.loading='lazy';im.src=`../img/t/${String(i+1).padStart(2,'0')}.webp`;im.alt=c[0];fb.appendChild(im)});
 </script>
 <script type="module">

diff --git a/index.html b/index.html
@@ -20,11 +20,11 @@ footer{margin-top:5vw;opacity:.45;display:flex;justify-content:space-between;fle
 footer a{color:inherit}
 </style></head><body>
 <h1>New Heights<br><span>Concepts</span></h1>
-<p class="sub">Four private art directions for New Heights Studio — the natural-light loft in The Heights, Jersey City, aka “the office.” Every Book button goes to Peerspace. Not indexed, not public.</p>
+<p class="sub">Four private art directions for New Heights Studio — the natural-light loft in The Heights, Jersey City, with downtown Manhattan in the window. Every Book button goes to Peerspace. Not indexed, not public.</p>
 <div class="grid">
 <a class="c" href="1/"><div class="th" style="background-image:url(shots/1.jpg)"></div><div class="t"><span class="n">01</span><b>Issue Nº01</b><p>Brutalist editorial magazine — giant Anton type, raw ruled grid, signal orange, cover lines and a contents page.</p></div></a>
 <a class="c" href="2/"><div class="th" style="background-image:url(shots/2.jpg)"></div><div class="t"><span class="n">02</span><b>A Day in Four Lights</b><p>Cinematic scroll — dawn to night through the loft, a light beam sweeping the room, viewfinder HUD and film slates.</p></div></a>
-<a class="c" href="3/"><div class="th" style="background-image:url(shots/3.jpg)"></div><div class="t"><span class="n">03</span><b>the office OS 98</b><p>Y2K desktop — draggable windows and polaroids, Photos folder, rates.txt, BOOK.EXE and a Start menu.</p></div></a>
+<a class="c" href="3/"><div class="th" style="background-image:url(shots/3.jpg)"></div><div class="t"><span class="n">03</span><b>HEIGHTS 98</b><p>New Heights OS — a Y2K desktop with draggable windows and polaroids, a Photos folder, rates.txt, BOOK.EXE and a Start menu.</p></div></a>
 <a class="c" href="4/"><div class="th" style="background-image:url(shots/4.jpg)"></div><div class="t"><span class="n">04</span><b>You Are the Light</b><p>WebGL — 19 photos hung on a dark 3D ring; your cursor is the spotlight, with light-leak shaders and dust.</p></div></a>
 </div>
 <footer><span>New Heights Studio · Jersey City</span><span><a href="https://www.peerspace.com/pages/listings/6ae4f4368b9999ba346769e4" target="_blank" rel="noopener">Book on Peerspace ↗</a></span></footer>
